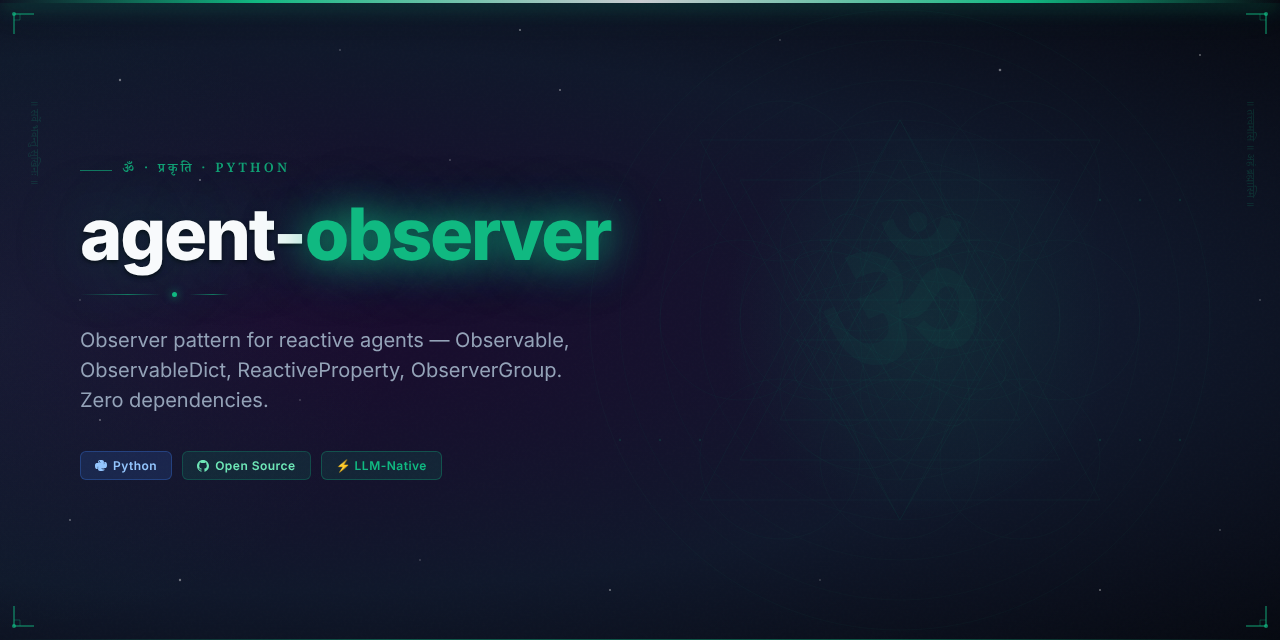
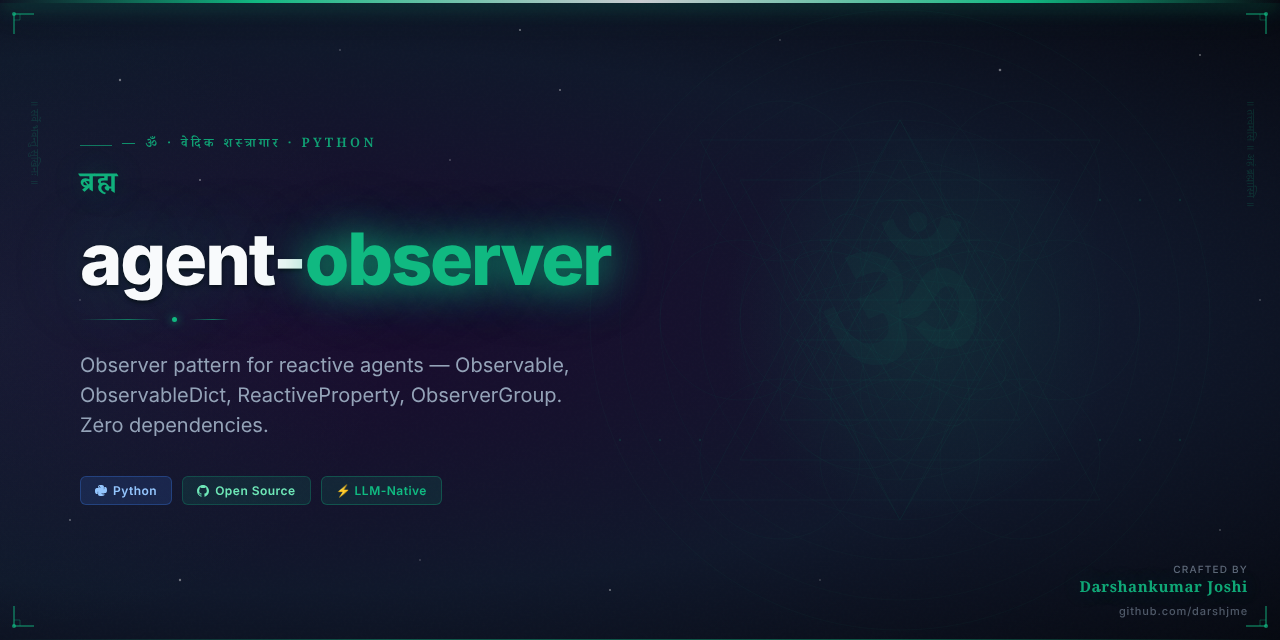
feat: add Vedic Arsenal hero image and updated README
Part of darshjme/arsenal — 100 production-grade Python libraries for LLM agents.
Vedic branding: ancient philosophy meets modern AI engineering.

diff --git a/README.md b/README.md
@@ -1,10 +1,12 @@
 <div align="center">
 
-<img src="assets/agent-observer-hero.png" alt="agent-observer — Vedic Arsenal" width="100%" />
+<img src="assets/agent-observer-hero.png" alt="agent-observer — Vedic Arsenal by Darshankumar Joshi" width="100%" />
 
 # 🌿 agent-observer
 
-### *ब्रह्म* — Brahma — the universal intelligence
+<h3><em>ब्रह्म</em></h3>
+
+> *Brahma — the universal intelligence*
 
 **Observer pattern for reactive agents — Observable, ObservableDict, ReactiveProperty, ObserverGroup. Zero dependencies.**
 
@@ -39,6 +41,19 @@ Or clone directly:
 git clone https://github.com/darshjme/agent-observer.git
 cd agent-observer
 pip install -e .
+```
+
+## How It Works
+
+```mermaid
+flowchart LR
+    A[Input] --> B[agent-observer]
+    B --> C{Process}
+    C -- Success --> D[Output]
+    C -- Error --> E[Handle / Retry]
+    E --> B
+    style B fill:#6b21a8,color:#fff
+    note["Observer — Zero Dependencies"]
 ```
 
 ## Quick Start
@@ -90,7 +105,7 @@ MIT — use freely, build freely.
 
 <div align="center">
 
-**Built with 🌿 by [Darshankumar Joshi](https://github.com/darshjme)**
+**Built with 🌿 by [Darshankumar Joshi](https://github.com/darshjme)** · [@thedarshanjoshi](https://twitter.com/thedarshanjoshi)
 
 *"कर्मण्येवाधिकारस्ते मा फलेषु कदाचन"*
 *Your right is to action alone, never to the fruits thereof.*
